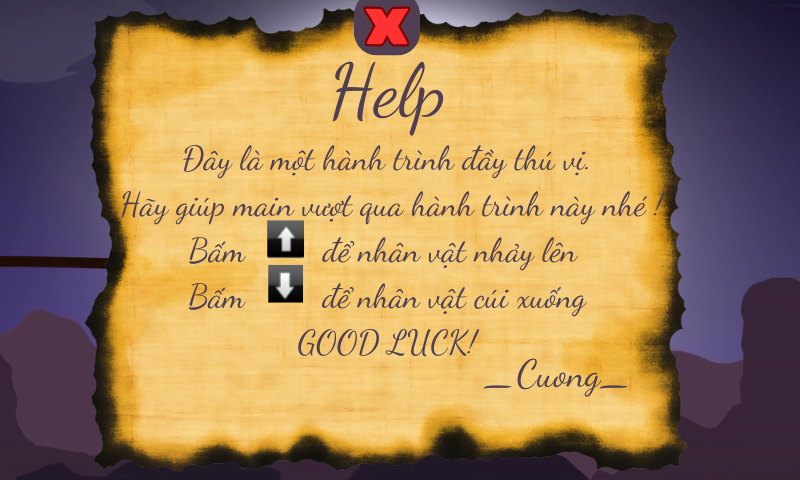
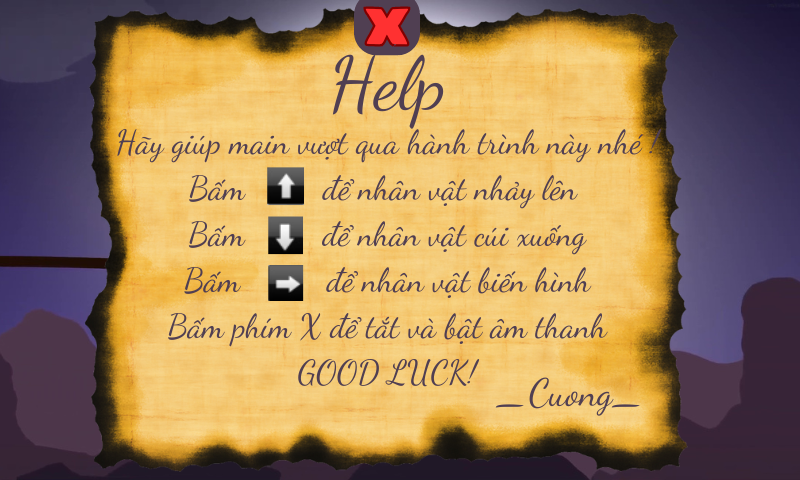
1

Changed region(s): [[0.125, 0.125, 0.8125, 0.875], [0.625, 0.8438, 0.6562, 0.875]]

diff --git a/main.cpp b/main.cpp
@@ -6,22 +6,23 @@
 using namespace std;
 
     void update(vector<vector<int>>& positions,int time,int x,int y,int move,int &last) {
-        int now = SDL_GetTicks();
+    int now = SDL_GetTicks();
 
+    x = rand() % x + x ;
 
-            if (now - last >= time) {
-                last = now;
-                positions.push_back({x, y}); // Thêm một con slime mới tại vị trí (x, y)
-            }
-
-        for (auto& position : positions) {
-            position[0] -= move; // Di chuyển con slime sang trái
-        }
-
-        positions.erase(std::remove_if(positions.begin(), positions.end(), [](const vector<int>& position) {
-            return position[0] < -32; // Loại bỏ con slime nếu đã đi qua khỏi màn hình
-        }), positions.end());
+    if (now - last >= time) {
+        last = now;
+        positions.push_back({x, y}); // Thêm một con enemy mới tại vị trí (x, y)
     }
+
+    for (auto& position : positions) {
+        position[0] -= move; // Di chuyển con enemy sang trái
+    }
+
+    positions.erase(remove_if(positions.begin(), positions.end(), [](const vector<int>& position) {
+        return position[0] < -32; // Loại bỏ con enemy nếu đã đi qua khỏi màn hình
+    }), positions.end());
+}
 
     void ve(Graphics& graphic , Threats& threat , vector<vector<int>>& positions) {
         for (const auto& position : positions) {
@@ -52,13 +53,16 @@ bool isMouseOverButton(const SDL_Rect& button, int mouseX, int mouseY) {
             mouseY >= button.y && mouseY <= button.y + button.h);
 }
 
+
 int main(int argc, char *argv[]) {
 
     Graphics graphics;
     graphics.init();
 
     ScrollingBackground background;
+    ScrollingBackground background2;
     background.setTexture(graphics.loadTexture(BACKGROUND_IMG));
+    background2.setTexture(graphics.loadTexture(BACKGROUND2));
 
     SDL_Texture* menuTexture = graphics.loadTexture("image\\menu.png");
     SDL_Texture* gameoverTexture = graphics.loadTexture("image\\gameover.png");
@@ -66,6 +70,8 @@ int main(int argc, char *argv[]) {
     SDL_Texture* news = graphics.loadTexture ("image\\new.png");
     SDL_Texture* hlp = graphics.loadTexture ("image\\hlp.png");
     SDL_Texture* qitt = graphics.loadTexture ("image\\quitt.png");
+    SDL_Texture* bienh = graphics.loadTexture ("image\\bh.png");
+    SDL_Texture* bh2 = graphics.loadTexture ("image\\bh2.png");
 
     Sprite saitama;
     SDL_Texture* saitamaTexture = graphics.loadTexture(SAITAMA_SPRITE_FILE);
@@ -82,6 +88,10 @@ int main(int argc, char *argv[]) {
     Sprite die;
     SDL_Texture* dieTexture = graphics.loadTexture(DIE_SPRITE_FILE);
     die.init(dieTexture, DIE_FRAMES, DIE_CLIPS);
+
+    Sprite goku;
+    SDL_Texture* gokuTexture = graphics.loadTexture(GOKU_SPRITE_FILE);
+    goku.init(gokuTexture, GOKU_FRAMES, GOKU_CLIPS);
 
     Threats stone;
     SDL_Texture* stoneTexture = graphics.loadTexture(STONE_SPRITE_FILE);
@@ -110,7 +120,15 @@ int main(int argc, char *argv[]) {
     int lastStone = SDL_GetTicks();
     int lastBuu = SDL_GetTicks();
 
+    srand(time(0));
+
     while (!quit) {
+
+        int bh=score-diem;
+        if(bh>=200){
+            ssbh=true;
+            diem=score;
+        }
         SDL_Event event;
         if (!gameover) {
             graphics.renderTexture(menuTexture, 0, 0); }
@@ -137,6 +155,24 @@ int main(int argc, char *argv[]) {
                     if(!isJumping && !isdie) {isCrouching = true;}
                     crouchDuration = crouchDurationMax; // Đặt thời gian cúi xuống về giá trị tối đa
                 }
+                if (event.key.keysym.scancode == SDL_SCANCODE_RIGHT) {
+                    graphics.play(jucr);
+                    if(ssbh) {
+                        bienhinh = true;
+                    }
+                }
+                if (event.key.keysym.scancode == SDL_SCANCODE_X) {
+                    if (offvl) {
+                        Mix_VolumeMusic(MIX_MAX_VOLUME); // Bật lại âm thanh với âm lượng ban đầu
+                        offvl = false; // Đặt offvl thành false
+                    } else {
+                        Mix_VolumeMusic(0); // Tắt âm thanh
+                        offvl = true; // Đặt offvl thành true
+                    }
+                }
+                if (event.key.keysym.scancode == SDL_SCANCODE_C) {
+
+                }
             }
             else if (event.type == SDL_MOUSEBUTTONDOWN ){
                     graphics.play(click);
@@ -146,10 +182,10 @@ int main(int argc, char *argv[]) {
                         // Kiểm tra xem chuột có nằm trong vị trí của các nút không
                         if (isMouseOverButton(PLAY_BUTTON, mouseX, mouseY) && !isplaying && !help) {
                             // Người dùng nhấn vào nút "Play Game"
-                            // Thực hiện hành động tương ứng
                             gameover = false;
                             isplaying = true;
                             // Reset tất cả các biến và trạng thái của trò chơi về giá trị ban đầu
+
                                     lastSlime = SDL_GetTicks();
                                     lastStone = SDL_GetTicks();
                                     lastBuu = SDL_GetTicks();
@@ -159,20 +195,19 @@ int main(int argc, char *argv[]) {
                                     crouchDuration = crouchDurationMax;
                                     score=0;
                                     dietime=200;
+                                    diem=0;
+                                    bienhinh=0;
+                                    ssbh=0;
                                     // Xóa các vị trí của nhân vật và các mục tiêu khác
                                     po1.clear();
                                     po2.clear();
                                     po3.clear();
 
-                                    // Xóa bất kỳ texture không còn cần thiết
-//                            SDL_DestroyTexture(menuTexture);
                         } else if (isMouseOverButton(HELP_BUTTON, mouseX, mouseY) && !isplaying  ) {
                             // Người dùng nhấn vào nút "Help"
-                            // Thực hiện hành động tương ứng
                             help=1;
                         } else if (isMouseOverButton(QUIT_BUTTON, mouseX, mouseY) && !isplaying && !help) {
                             // Người dùng nhấn vào nút "Quit"
-                            // Thực hiện hành động tương ứng
                             quit=1;
                         } else if (isMouseOverButton (X_BUTTON,mouseX,mouseY)) {
                             help=0;
@@ -208,22 +243,22 @@ int main(int argc, char *argv[]) {
     }
     if(isplaying) {
              a=score/100+ 1;
-            update(po1,8000,801,380,8+a,lastSlime);
-            update(po2,2500,801,395,8+a,lastStone);
-            update(po3,20000,801,385,15+a,lastBuu);
-
-        if (isCrouching ) {
+            update(po1,8000,801,328,8+a,lastSlime);
+            update(po2,2500,801,343,8+a,lastStone);
+            update(po3,20000,801,333,15+a,lastBuu);
+        if (isCrouching && !bienhinh) {
             // Xử lý khi nhân vật đang cúi xuống
             crouch.tick(); // Cập nhật frame nhân vật
-            background.scroll(5+a);
+            background2.scroll(8+a);
             graphics.prepareScene();
             graphics.render(background);
-            SDL_Rect playerRect = { 150,450, 40, 2 };
+            graphics.render(background2);
+            SDL_Rect playerRect = { 150,398, 40, 2 };
 
-            if (crouchDuration>=190)   graphics.render2(150, 395, crouch, 0); // Sử dụng frame của nhân vật khi cúi
-            else if (crouchDuration>=180) graphics.render2(150, 395, crouch, 1);
-            else if (crouchDuration>=160) graphics.render2(150, 395, crouch, 2);
-            else if (crouchDuration>=0) graphics.render2(150, 395, crouch, 3);
+            if (crouchDuration>=190)   graphics.render2(150, 335, crouch, 0); // Sử dụng frame của nhân vật khi cúi
+            else if (crouchDuration>=180) graphics.render2(150, 335, crouch, 1);
+            else if (crouchDuration>=160) graphics.render2(150, 335, crouch, 2);
+            else if (crouchDuration>=0) graphics.render2(150, 335, crouch, 3);
 
             // Giảm thời gian cúi xuống
             crouchDuration-=10;
@@ -238,25 +273,27 @@ int main(int argc, char *argv[]) {
 
         }
         // Xử lý khi nhân vật đang ở trạng thái nhảy
-        else if (isJumping ) {
+        else if (isJumping && !bienhinh ) {
             // Xử lý khi nhân vật đang nhảy lên
             jumpHeight += jumpSpeed;
             jump.tick(); // Cập nhật frame nhân vật
-            background.scroll(5+a);
+            background2.scroll(8+a);
             graphics.prepareScene();
             graphics.render(background);
+            graphics.render(background2);
+
 //            playerRect.y = 395 - jumpHeight;
-            SDL_Rect playerRect = { 150, 395-jumpHeight, 30, 30 };
+            SDL_Rect playerRect = { 150, 343-jumpHeight, 30, 30 };
             // Vẽ nhân vật ở vị trí hiện tại và nhảy lên từ từ
             if (jumpHeight < maxJumpHeight) {
                 // Sử dụng frame đầu tiên của sprite nhảy
-                graphics.render2(150, 395 - jumpHeight, jump, 0);
+                graphics.render2(150, 343 - jumpHeight, jump, 0);
             } else if (jumpHeight <= 2 * maxJumpHeight) {
                 // Sử dụng frame thứ hai của sprite nhảy
-                graphics.render2(150, 395 - maxJumpHeight, jump, 1);
+                graphics.render2(150, 343 - maxJumpHeight, jump, 1);
             } else {
                 // Sử dụng frame thứ ba của sprite nhảy
-                graphics.render2(150, 395 - (3 * maxJumpHeight - jumpHeight), jump, 2);
+                graphics.render2(150, 343 - (3 * maxJumpHeight - jumpHeight), jump, 2);
             }
 
             // Khi nhảy đạt đến độ cao tối đa, bắt đầu giảm chiều cao nhảy
@@ -268,18 +305,39 @@ int main(int argc, char *argv[]) {
             handleCollision(po2,die,graphics,45,60,playerRect);
             handleCollision(po3,die,graphics,90,93,playerRect);
         }
+        else if (bienhinh && !isdie){
+            goku.tick();
+            background2.scroll(8+a);
+            graphics.prepareScene();
+            graphics.render(background);
+            graphics.render(background2);
+            if (gktime >= 950) graphics.render2(150, 320, goku, 0);
+            else if (gktime >= 900) graphics.render2(150, 320, goku, 1);
+            else if (gktime >= 850) graphics.render2(150, 320, goku, 2);
+            else if (gktime >= 800) graphics.render2(150, 320, goku, 3);
+            else graphics.render2(150, 320, goku, 4);
+
+            gktime -= 5;
+
+            if (gktime <= 0) {
+                bienhinh = false;
+                ssbh=false;
+                gktime=1000;
+            }
+        }
         else if (isdie ) {
             if (dietime>185) graphics.play(bonk);
             die.tick();
 //            background.scroll(5);
             graphics.prepareScene();
             graphics.render(background);
-            if (dietime >= 150) graphics.render2(140, 360, die, 0); // Vẽ các frame chết liên tục
-            else if (dietime >= 100) graphics.render2(70, 380, die, 1);
-            else if (dietime >= 80) graphics.render2(40, 395, die, 2);
-            else graphics.render2(50, 395, die, 3);
+            graphics.render(background2);
+            if (dietime >= 180) graphics.render2(140, 308, die, 0); // Vẽ các frame chết liên tục
+            else if (dietime >= 160) graphics.render2(100, 328, die, 1);
+            else if (dietime >= 140) graphics.render2(70, 338, die, 2);
+            else graphics.render2(70, 338, die, 3);
 
-            dietime -= 8;
+            dietime -= 5;
 
             if (dietime <= 0) {
                 isdie = false;
@@ -288,15 +346,17 @@ int main(int argc, char *argv[]) {
 
             }
     }
+
         else {
             // Xử lý khi nhân vật đang ở trạng thái bình thường
-            playerRect.y = 395;
+
             saitama.tick(); // Cập nhật frame nhân vật
-            background.scroll(5+a);
+            background2.scroll(8+a);
             graphics.prepareScene();
             graphics.render(background);
-            graphics.render2(150, 395, saitama); // Vẽ nhân vật ở vị trí bình thường
-            SDL_Rect playerRect = { 150, 395, 30, 55 };
+            graphics.render(background2);
+            graphics.render2(150, 343, saitama); // Vẽ nhân vật ở vị trí bình thường
+            SDL_Rect playerRect = { 150, 343, 30, 55 };
             handleCollision(po1,die,graphics,25,30,playerRect);
             handleCollision(po2,die,graphics,45,60,playerRect);
             handleCollision(po3,die,graphics,90,93,playerRect);
@@ -304,6 +364,10 @@ int main(int argc, char *argv[]) {
 
 //         Cập nhật frame của con slime
        if(isplaying){
+        graphics.renderTexture(bh2,20,18);
+        if(ssbh) {graphics.renderTexture(bienh,20,18);}
+
+
         slime.tick();
         stone.tick();
         buu.tick();
@@ -321,7 +385,7 @@ int main(int argc, char *argv[]) {
         string h=to_string(highest_score);
         SDL_Texture* minscotext = graphics.renderText(m,minifont,minicolor);
         SDL_Texture* hightext = graphics.renderText(h,minifont,minicolor);
-        if (now-last>=100){
+        if (now-last>=150){
             score+=1;
             last=now;
         }
@@ -346,8 +410,7 @@ int main(int argc, char *argv[]) {
        }
     }
         graphics.presentScene();
-        SDL_Delay(50);
-
+        SDL_Delay(30);
     }
 
     // Giải phóng bộ nhớ và thoát
@@ -358,6 +421,9 @@ int main(int argc, char *argv[]) {
     SDL_DestroyTexture(stoneTexture);
     SDL_DestroyTexture (buuTexture);
     SDL_DestroyTexture (dieTexture);
+    SDL_DestroyTexture (gokuTexture);
+    SDL_DestroyTexture (bh2);
+    SDL_DestroyTexture (bienh);
     SDL_DestroyTexture(background.texture);
     SDL_DestroyTexture (gameoverTexture);
     SDL_DestroyTexture (helpTexture);

diff --git a/defs.h b/defs.h
@@ -10,6 +10,7 @@
 #include <algorithm>
 #include <string>
 #include <fstream>
+#include <bits/stdc++.h>
 const int SCREEN_WIDTH = 800;
 const int SCREEN_HEIGHT = 480;
 const char* WINDOW_TITLE = "Adventure Time!";
@@ -31,6 +32,7 @@ const SDL_Rect X_BUTTON = { 360, 0, 55, 50};
     int crouchDuration = 0;
     const int crouchDurationMax = 200; // Độ dài tối đa thời gian cúi xuống
      int dietime = 200;
+     int gktime = 1000;
      bool gameover=0;
     bool isdie=0;
     bool het=0;
@@ -40,6 +42,10 @@ const SDL_Rect X_BUTTON = { 360, 0, 55, 50};
     int last =0;
     bool help=0;
     int a=1;
+    int diem=0;
+    bool bienhinh=0;
+    bool ssbh=false;
+    bool offvl=0;
     bool newss=0, hlps=0, qitts=0;
 const char*  SAITAMA_SPRITE_FILE = "image\\shaolin_running_strip.png";
 const char*  JUMP_SPRITE_FILE = "image\\shaolin_jump_strip.png";
@@ -48,7 +54,8 @@ const char*  SLIME_SPRITE_FILE = "image\\slime-Sheet.png";
 const char*  STONE_SPRITE_FILE = "image\\stone.png";
 const char*  BUU_SPRITE_FILE = "image\\buuu.png";
 const char*  DIE_SPRITE_FILE = "image\\dies.png";
-
+const char*  BACKGROUND2 = "image\\bground2.png";
+const char*  GOKU_SPRITE_FILE = "image\\goku.png";
 
 const int run_CLIPS[][4] = {
     {0, 0, 45, 61},
@@ -93,6 +100,15 @@ const int DIE_CLIPS[][4] = {
     {140, 0, 70, 74},
     {210, 0, 70, 74},
 };
+const int GOKU_CLIPS[][4] = {
+    {0, 0, 74, 77},
+    {75, 0, 74, 77},
+    {166, 0, 74, 77},
+    {228, 0, 74, 77},
+    {309, 0, 74, 77},
+    {393, 0, 74, 77}
+};
+
 const int saitama_FRAMES = sizeof(run_CLIPS)/sizeof(int)/4;
 const int JUMP_FRAMES = sizeof(JUMP_CLIPS)/sizeof(int)/4;
 const int CROUCH_FRAMES = sizeof(CROUCH_CLIPS)/sizeof(int)/4;
@@ -100,5 +116,6 @@ const int SLIME_FRAMES = sizeof(SLIME_CLIPS)/sizeof(int)/4;
 const int STONE_FRAMES = sizeof(STONE_CLIPS)/sizeof(int)/4;
 const int BUU_FRAMES = sizeof(BUU_CLIPS)/sizeof(int)/4;
 const int DIE_FRAMES = sizeof(DIE_CLIPS)/sizeof(int)/4;
+const int GOKU_FRAMES = sizeof(GOKU_CLIPS)/sizeof(int)/4;
 
 #endif

diff --git a/graphics.h b/graphics.h
@@ -182,6 +182,7 @@ struct Graphics {
             Mix_PlayChannel( -1, gChunk, 0 );
         }
     }
+
 };
 
 
